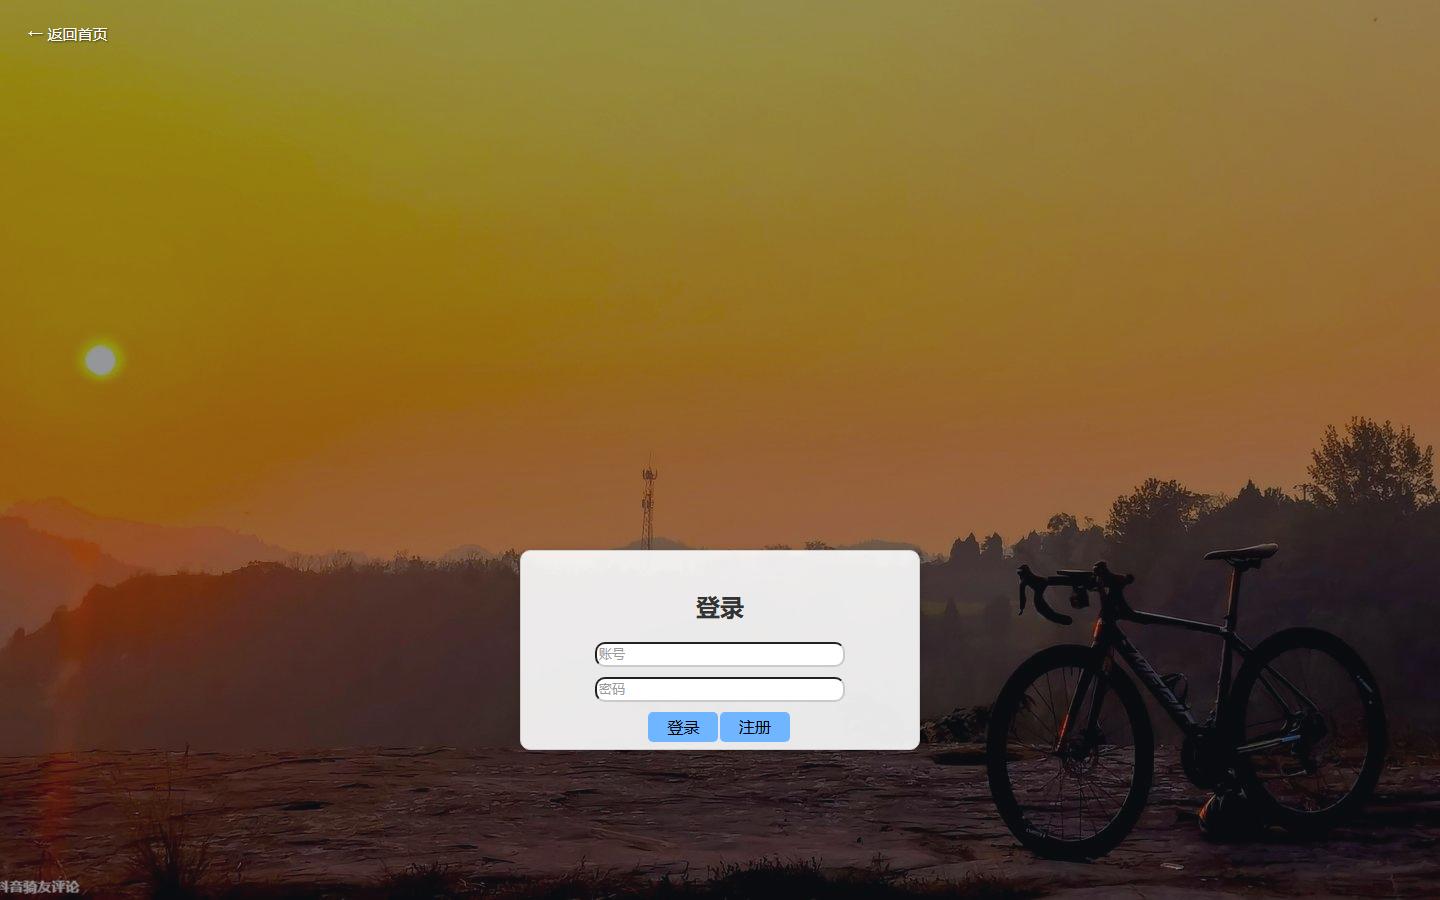
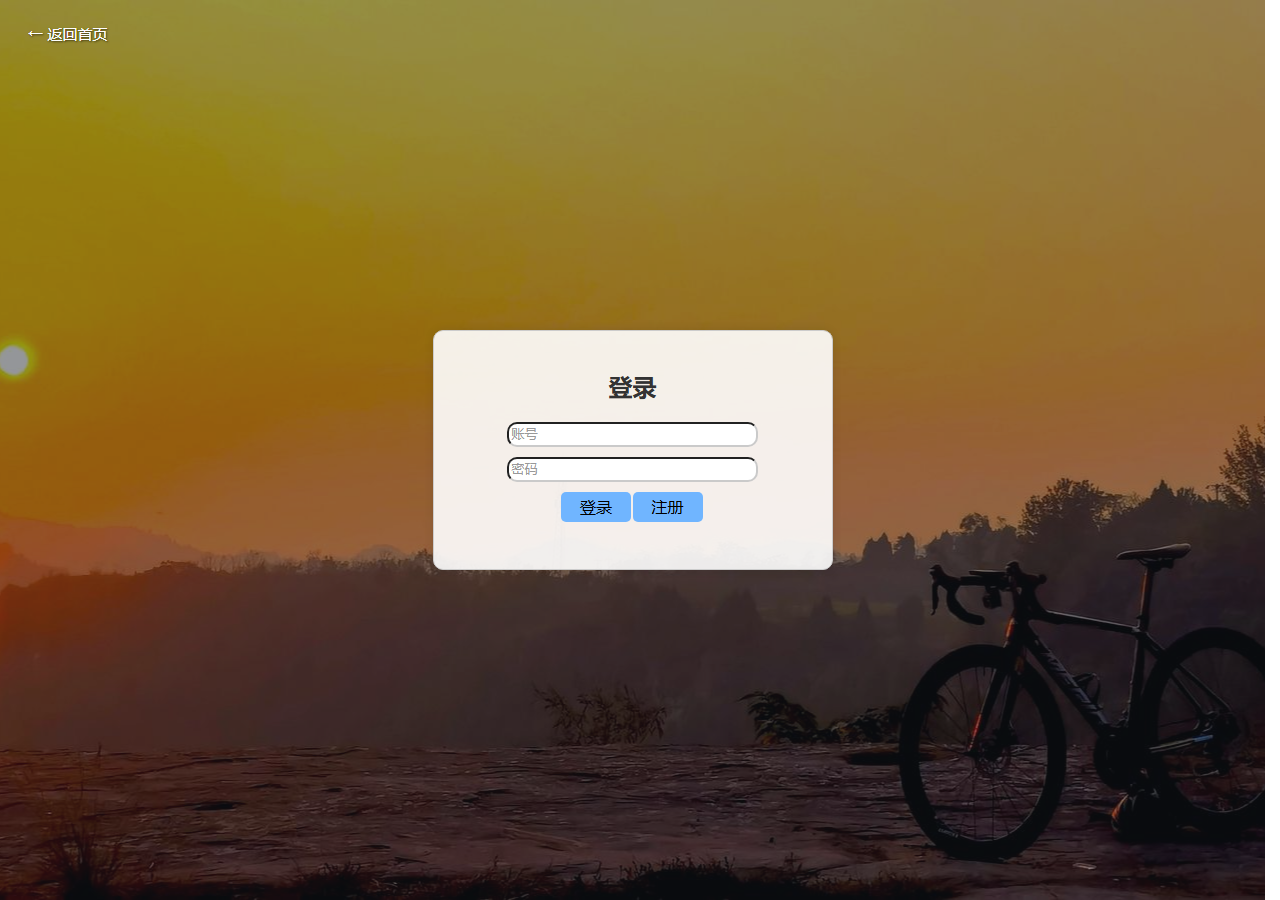
docs: 更新页面截图（PC 1280 / 2560 两档）

diff --git a/新代码/src/views/LoginView.vue b/新代码/src/views/LoginView.vue
@@ -211,6 +211,7 @@ async function submitRegister() {
   text-shadow: 1px 1px 2px rgba(0, 0, 0, 0.6);
 }
 .back-home:hover{
-  color:rgba(60, 60, 60, 0.6)
+  color:rgba(60, 60, 60, 0.6);
+  transition: all 0.1s ease;
 }
 </style>
